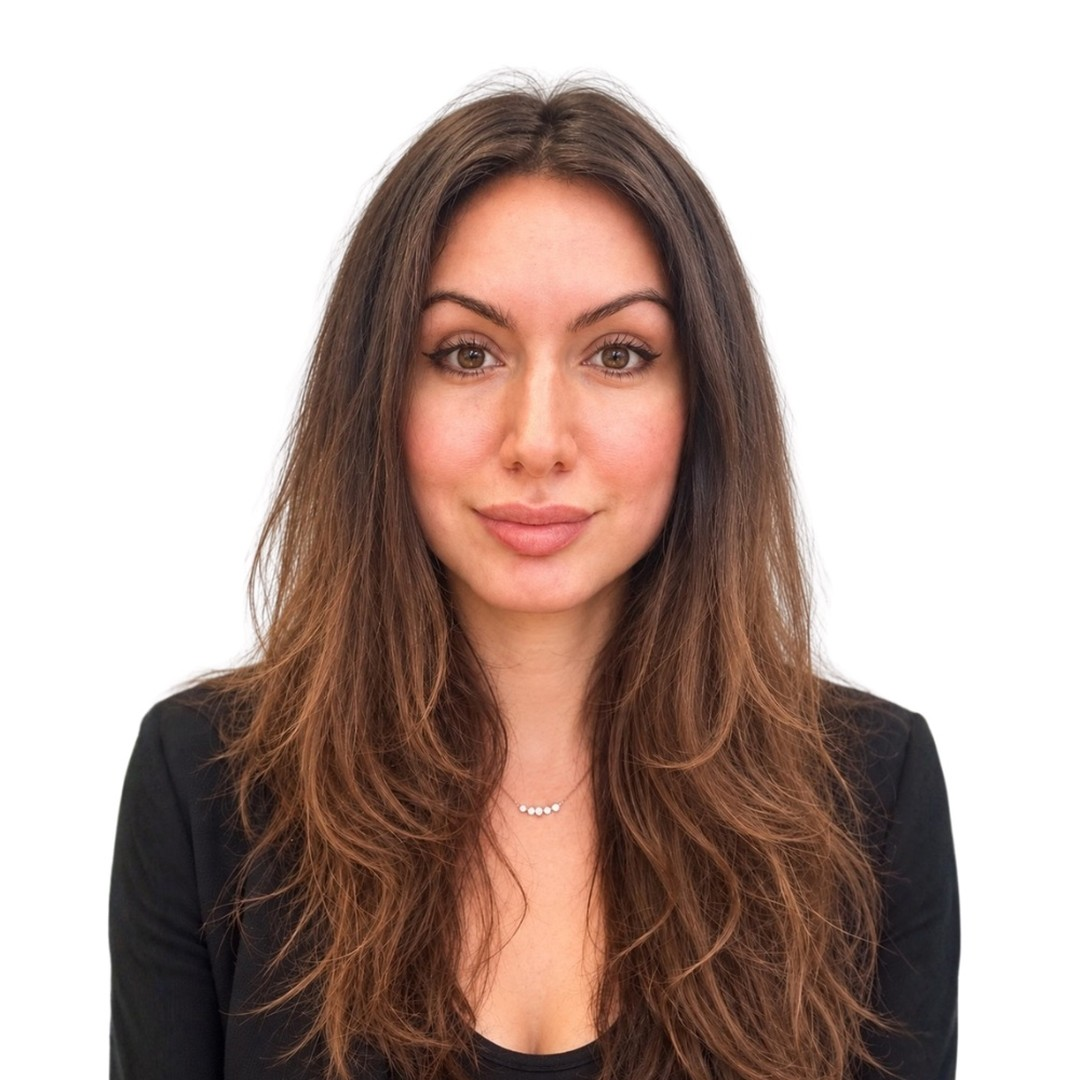
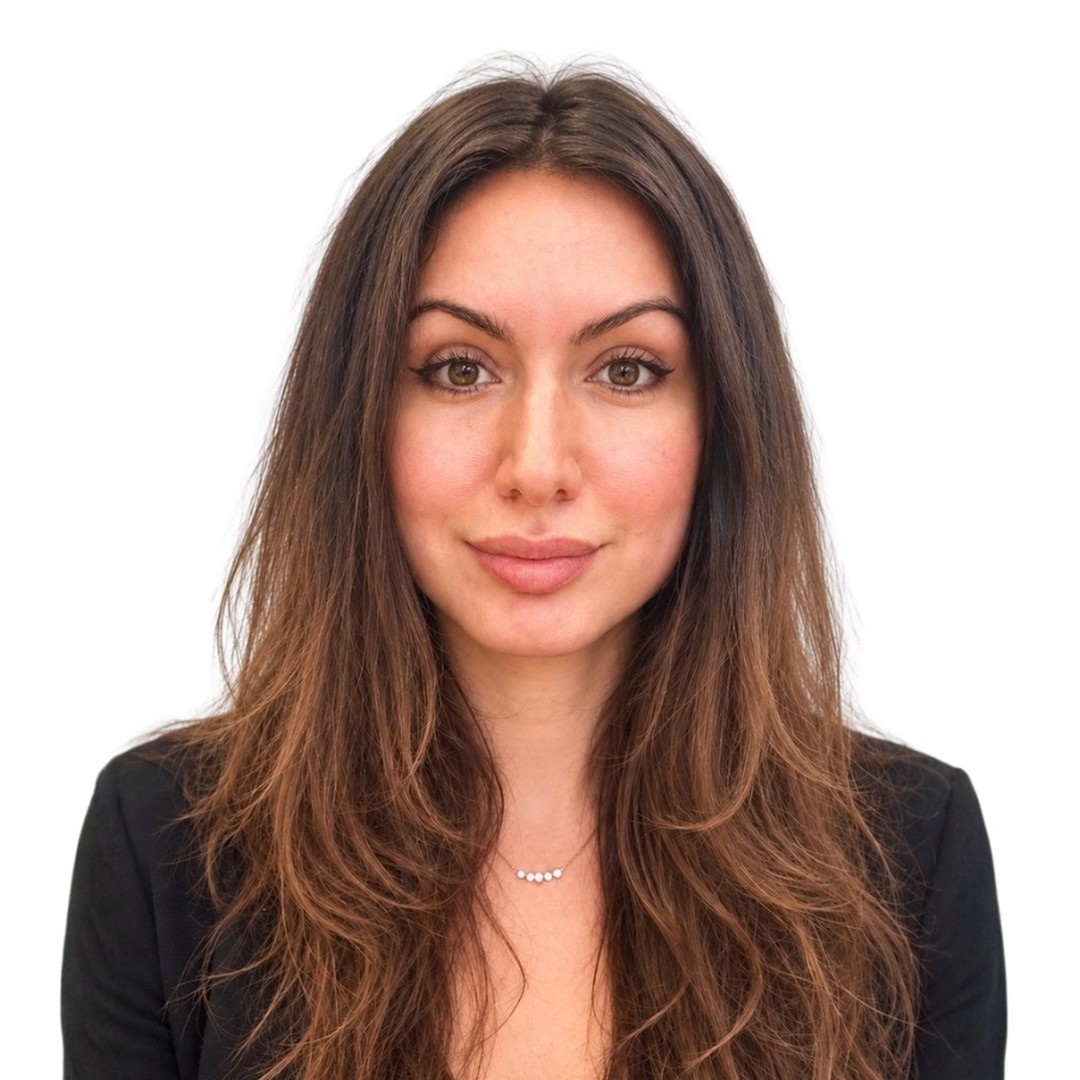
Zoom in on Arpi Asatryan's photo to match other specialists
Claude-Session: https://claude.ai/code/session_01UY2yYSyHezMTLTrkPybDFD

diff --git a/team.html b/team.html
@@ -246,7 +246,7 @@
           <a class="more" href="adlea-specialist-bios.html#lilit-aleksanyan">Learn more &#8594;</a>
         </div>
         <div class="team-card">
-          <div class="team-photo"><img src="assets/arpi-asatryan.jpg" alt="Arpi Asatryan"></div>
+          <div class="team-photo"><img src="assets/arpi-asatryan.jpg?v=2" alt="Arpi Asatryan"></div>
           <h3>Arpi Asatryan</h3>
           <p class="role">Armenian Language and Culture Specialist</p>
           <a class="more" href="adlea-specialist-bios.html#arpi-asatryan">Learn more &#8594;</a>

diff --git a/adlea-specialist-bios.html b/adlea-specialist-bios.html
@@ -272,7 +272,7 @@
       </div>
 
       <div id="arpi-asatryan" class="bio-section">
-        <div class="bio-photo"><img src="assets/arpi-asatryan.jpg" alt="Arpi Asatryan"></div>
+        <div class="bio-photo"><img src="assets/arpi-asatryan.jpg?v=2" alt="Arpi Asatryan"></div>
         <div class="bio-text">
           <span class="eyebrow">Specialist Team</span>
           <h2>Arpi Asatryan</h2>
